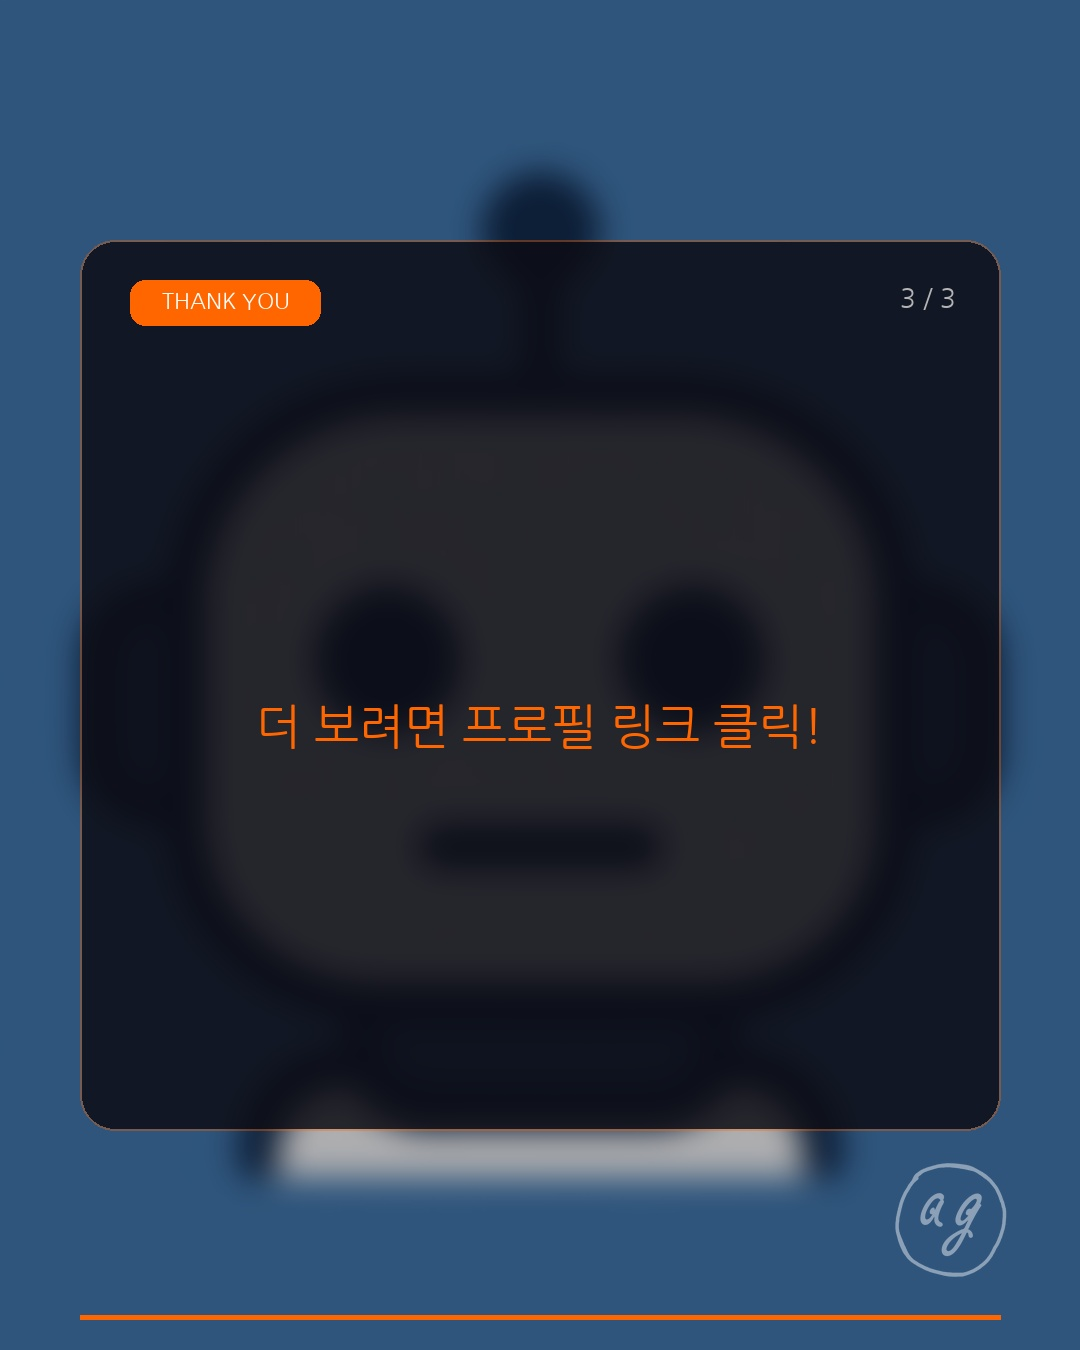
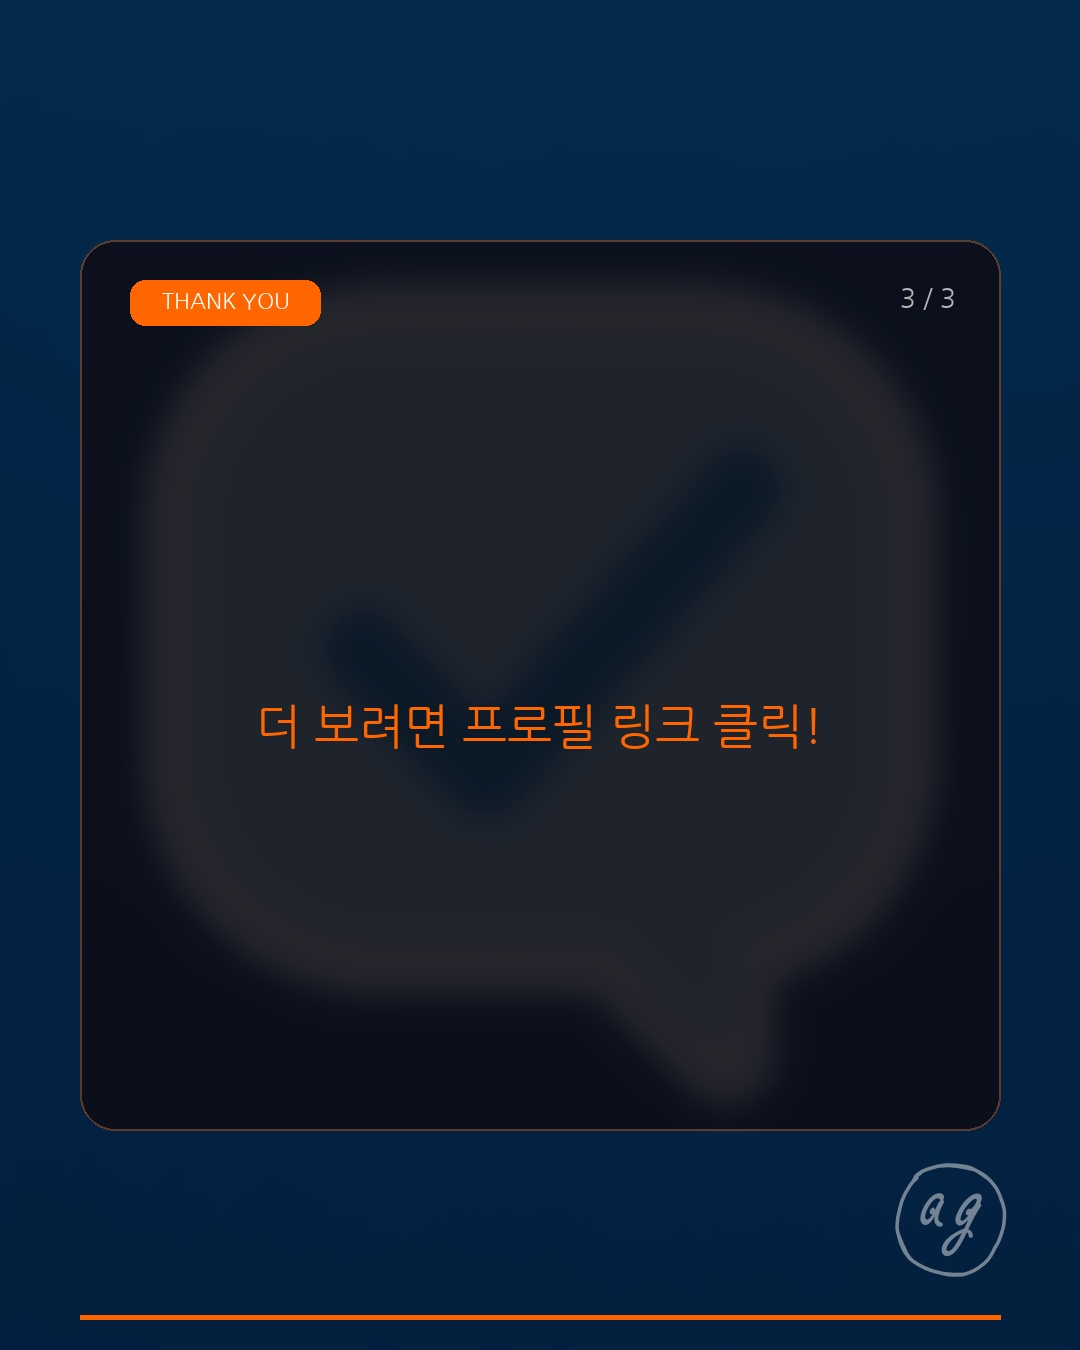
design: differentiate Cover layout from content slides and reinforce emoji generation prompts

diff --git a/src/script_vision.py b/src/script_vision.py
@@ -355,9 +355,11 @@ def resize_to_cover(image: Image.Image, target_width: int, target_height: int) -
 def draw_card_layout(slide: dict, total_pages: int, hooking_title: str, bg_image: Image.Image = None, article_title: str = None) -> Image.Image:
     """
     Generates a single 4:5 image slide based on its content and type.
-    Uses a premium glassmorphic card news layout structure.
+    Uses a premium glassmorphic card news layout structure for content/CTA,
+    and a bold bottom-gradient layout for the cover to make the title pop.
     """
     slide_type = slide.get("type", "content")
+    key_color = (255, 102, 0, 255) # #FF6600
     
     if bg_image is not None:
         # We make a copy of the pre-resized cover image
@@ -370,10 +372,21 @@ def draw_card_layout(slide: dict, total_pages: int, hooking_title: str, bg_image
         if slide_type != "cover":
             # Apply Gaussian Blur to content slides
             image = image.filter(ImageFilter.GaussianBlur(15))
-            
-        # Draw transparent overlay to darken slightly
-        overlay = Image.new("RGBA", (WIDTH, HEIGHT), (10, 10, 15, 80)) # ~30% opacity
-        image = Image.alpha_composite(image, overlay)
+            # Draw standard transparent overlay for content slides
+            overlay = Image.new("RGBA", (WIDTH, HEIGHT), (10, 10, 15, 80)) # ~30% opacity
+            image = Image.alpha_composite(image, overlay)
+        else:
+            # For Cover Slide: Crisp background with bottom-up dark gradient shadow
+            gradient_overlay = Image.new("RGBA", (WIDTH, HEIGHT), (0, 0, 0, 0))
+            g_draw = ImageDraw.Draw(gradient_overlay)
+            start_y = 500
+            end_y = 1350
+            for y in range(start_y, end_y):
+                # Calculate alpha: linear transition from 0 to 240
+                alpha = int(240 * (y - start_y) / (end_y - start_y))
+                # Draw a horizontal line
+                g_draw.line([(0, y), (WIDTH, y)], fill=(10, 10, 15, alpha))
+            image = Image.alpha_composite(image, gradient_overlay)
     else:
         # Fallback to premium gradient if bg_image is None
         color_start = (20, 20, 30)
@@ -382,56 +395,37 @@ def draw_card_layout(slide: dict, total_pages: int, hooking_title: str, bg_image
         if image.mode != "RGBA":
             image = image.convert("RGBA")
             
-    # Define layout dimensions
-    card_x0, card_y0 = 80, 240
-    card_x1, card_y1 = WIDTH - 80, HEIGHT - 220
-    
-    # 1. Create card overlay layer for premium glassmorphism
-    card_overlay = Image.new("RGBA", (WIDTH, HEIGHT), (0, 0, 0, 0))
-    card_draw = ImageDraw.Draw(card_overlay)
-    
-    # Choose card fill and border color based on slide type
-    if slide_type == "cover":
-        card_fill = (12, 12, 20, 190)  # ~75% opacity dark slate
-        card_border = (255, 255, 255, 50)  # Subtle white border
-    elif slide_type == "cta":
-        card_fill = (12, 12, 20, 215)  # Slightly higher opacity for final slide contrast
-        card_border = (255, 102, 0, 90)  # Subtle orange highlight border
-    else:
-        card_fill = (12, 12, 20, 210)  # ~82% opacity
-        card_border = (255, 255, 255, 40)
-        
-    card_draw.rounded_rectangle(
-        [card_x0, card_y0, card_x1, card_y1],
-        radius=35,
-        fill=card_fill,
-        outline=card_border,
-        width=2
-    )
-    
-    # Alpha composite the card onto the main background
-    image = Image.alpha_composite(image, card_overlay)
+        if slide_type == "cover":
+            # Still apply the bottom gradient overlay for consistency on fallback
+            gradient_overlay = Image.new("RGBA", (WIDTH, HEIGHT), (0, 0, 0, 0))
+            g_draw = ImageDraw.Draw(gradient_overlay)
+            start_y = 500
+            end_y = 1350
+            for y in range(start_y, end_y):
+                alpha = int(220 * (y - start_y) / (end_y - start_y))
+                g_draw.line([(0, y), (WIDTH, y)], fill=(10, 10, 15, alpha))
+            image = Image.alpha_composite(image, gradient_overlay)
+
     draw = ImageDraw.Draw(image)
     
-    # Key brand accent color (#FF6600)
-    key_color = (255, 102, 0, 255)
-    
-    # Bottom key color brand accent bar
+    # Bottom key color brand accent bar (drawn on all pages)
     draw.rectangle([80, HEIGHT - 35, WIDTH - 80, HEIGHT - 31], fill=key_color)
     
-    # Render slide page indicator inside the card (top-right corner)
-    page_num = slide.get("page", 1)
-    page_text = f"{page_num} / {total_pages}"
-    page_font = get_system_font(26)
-    draw.text((WIDTH - 180, 285), page_text, fill=(180, 180, 180, 220), font=page_font)
-    
     if slide_type == "cover":
-        # Draw cover top badge
-        draw.rounded_rectangle([130, 280, 440, 325], radius=15, fill=key_color)
-        badge_font = get_system_font(22)
-        draw.text((160, 290), "TRENDING INSIGHT", fill=(255, 255, 255, 255), font=badge_font)
+        # Cover Page Layout (No card, text drawn directly on bottom gradient)
         
-        # Draw Main Title (Bold) - use article title if available, truncated to 35 chars
+        # Render slide page indicator inside the cover area (top-right)
+        page_num = slide.get("page", 1)
+        page_text = f"{page_num} / {total_pages}"
+        page_font = get_system_font(26)
+        draw.text((WIDTH - 180, 285), page_text, fill=(180, 180, 180, 220), font=page_font)
+
+        # Draw cover top badge
+        draw.rounded_rectangle([80, 650, 390, 695], radius=15, fill=key_color)
+        badge_font = get_system_font(22)
+        draw.text((110, 660), "TRENDING INSIGHT", fill=(255, 255, 255, 255), font=badge_font)
+        
+        # Draw Main Title (Bold & Large)
         title_text = slide.get("main_text", hooking_title)
         if article_title and article_title.strip():
             clean_title = article_title.strip()
@@ -440,74 +434,103 @@ def draw_card_layout(slide: dict, total_pages: int, hooking_title: str, bg_image
             else:
                 title_text = clean_title
                 
-        title_font = get_system_font(56)
-        lines = wrap_text(title_text, title_font, WIDTH - 260)
+        title_font = get_system_font(72)  # Increased size from 56 to 72
+        lines = wrap_text(title_text, title_font, WIDTH - 160) # Increased wrap width to 920
         
-        y_cursor = 380
+        y_cursor = 730
         for line in lines:
-            draw_text_safe(draw, (130, y_cursor), line, fill=(255, 255, 255, 255), font=title_font, stroke_width=1)
-            y_cursor += 80
+            draw_text_safe(draw, (80, y_cursor), line, fill=(255, 255, 255, 255), font=title_font, stroke_width=1)
+            y_cursor += 95
             
-        # Draw teaser text at the bottom of the card
+        # Draw teaser text at the bottom
         teaser_text = "옆으로 넘겨서 핵심 요약 보기 ▶"
         teaser_font = get_system_font(26)
-        if hasattr(teaser_font, "getbbox"):
-            bbox = teaser_font.getbbox(teaser_text)
-            w = bbox[2] - bbox[0]
-        else:
-            w = len(teaser_text) * 13
-        x_pos = (WIDTH - w) // 2
-        draw.text((x_pos, HEIGHT - 300), teaser_text, fill=(230, 230, 235, 220), font=teaser_font)
+        draw.text((80, HEIGHT - 130), teaser_text, fill=key_color, font=teaser_font) # Placed at bottom left in key color
         
-    elif slide_type == "cta":
-        # Draw CTA page badge
-        draw.rounded_rectangle([130, 280, 320, 325], radius=15, fill=key_color)
-        badge_font = get_system_font(22)
-        draw.text((162, 290), "THANK YOU", fill=(255, 255, 255, 255), font=badge_font)
-        
-        content_font = get_system_font(48)
-        main_text = slide.get("main_text", "")
-        lines = wrap_text(main_text, content_font, WIDTH - 260)
-        
-        # Center text vertically inside the card body
-        line_height = 85
-        total_text_height = len(lines) * line_height
-        card_content_height = (HEIGHT - 220) - 360
-        y_cursor = 360 + (card_content_height - total_text_height) // 2
-        
-        for idx, line in enumerate(lines):
-            if hasattr(content_font, "getbbox"):
-                bbox = content_font.getbbox(line)
-                w = bbox[2] - bbox[0]
-            else:
-                w = len(line) * 24
-            x_pos = (WIDTH - w) // 2
-            
-            if idx == 0 or "마음에 들었다면" in line:
-                line_color = key_color
-            else:
-                line_color = (255, 255, 255, 255)
-                
-            draw_text_safe(draw, (x_pos, y_cursor), line, fill=line_color, font=content_font)
-            y_cursor += line_height
-
     else:
-        # Standard Content Slide Layout
-        # Draw Key Point badge
-        badge_text = f"KEY POINT 0{page_num - 1}" if page_num < 10 else f"KEY POINT {page_num - 1}"
-        draw.rounded_rectangle([130, 280, 360, 325], radius=15, fill=key_color)
-        badge_font = get_system_font(22)
-        draw.text((165, 290), badge_text, fill=(255, 255, 255, 255), font=badge_font)
+        # Define layout dimensions for content/CTA cards
+        card_x0, card_y0 = 80, 240
+        card_x1, card_y1 = WIDTH - 80, HEIGHT - 220
         
-        content_font = get_system_font(44)
-        main_text = slide.get("main_text", "")
-        lines = wrap_text(main_text, content_font, WIDTH - 260)
+        # Create card overlay layer for premium glassmorphism
+        card_overlay = Image.new("RGBA", (WIDTH, HEIGHT), (0, 0, 0, 0))
+        card_draw = ImageDraw.Draw(card_overlay)
         
-        y_cursor = 380
-        for line in lines:
-            draw_text_safe(draw, (130, y_cursor), line, fill=(245, 245, 250, 255), font=content_font)
-            y_cursor += 75
+        # Choose card fill and border color based on slide type
+        if slide_type == "cta":
+            card_fill = (12, 12, 20, 215)  # Slightly higher opacity for final slide contrast
+            card_border = (255, 102, 0, 90)  # Subtle orange highlight border
+        else:
+            card_fill = (12, 12, 20, 210)  # ~82% opacity
+            card_border = (255, 255, 255, 40)
             
+        card_draw.rounded_rectangle(
+            [card_x0, card_y0, card_x1, card_y1],
+            radius=35,
+            fill=card_fill,
+            outline=card_border,
+            width=2
+        )
+        
+        # Alpha composite the card onto the main background
+        image = Image.alpha_composite(image, card_overlay)
+        draw = ImageDraw.Draw(image)
+        
+        # Render slide page indicator inside the card (top-right corner)
+        page_num = slide.get("page", 1)
+        page_text = f"{page_num} / {total_pages}"
+        page_font = get_system_font(26)
+        draw.text((WIDTH - 180, 285), page_text, fill=(180, 180, 180, 220), font=page_font)
+        
+        if slide_type == "cta":
+            # Draw CTA page badge
+            draw.rounded_rectangle([130, 280, 320, 325], radius=15, fill=key_color)
+            badge_font = get_system_font(22)
+            draw.text((162, 290), "THANK YOU", fill=(255, 255, 255, 255), font=badge_font)
+            
+            content_font = get_system_font(48)
+            main_text = slide.get("main_text", "")
+            lines = wrap_text(main_text, content_font, WIDTH - 260)
+            
+            # Center text vertically inside the card body
+            line_height = 85
+            total_text_height = len(lines) * line_height
+            card_content_height = (HEIGHT - 220) - 360
+            y_cursor = 360 + (card_content_height - total_text_height) // 2
+            
+            for idx, line in enumerate(lines):
+                if hasattr(content_font, "getbbox"):
+                    bbox = content_font.getbbox(line)
+                    w = bbox[2] - bbox[0]
+                else:
+                    w = len(line) * 24
+                x_pos = (WIDTH - w) // 2
+                
+                if idx == 0 or "마음에 들었다면" in line:
+                    line_color = key_color
+                else:
+                    line_color = (255, 255, 255, 255)
+                    
+                draw_text_safe(draw, (x_pos, y_cursor), line, fill=line_color, font=content_font)
+                y_cursor += line_height
+
+        else:
+            # Standard Content Slide Layout
+            # Draw Key Point badge
+            badge_text = f"KEY POINT 0{page_num - 1}" if page_num < 10 else f"KEY POINT {page_num - 1}"
+            draw.rounded_rectangle([130, 280, 360, 325], radius=15, fill=key_color)
+            badge_font = get_system_font(22)
+            draw.text((165, 290), badge_text, fill=(255, 255, 255, 255), font=badge_font)
+            
+            content_font = get_system_font(44)
+            main_text = slide.get("main_text", "")
+            lines = wrap_text(main_text, content_font, WIDTH - 260)
+            
+            y_cursor = 380
+            for line in lines:
+                draw_text_safe(draw, (130, y_cursor), line, fill=(245, 245, 250, 255), font=content_font)
+                y_cursor += 75
+                
     # Apply logo watermark to the bottom right corner (outside the card)
     draw_logo_watermark(image)
     

diff --git a/src/agent_creative.py b/src/agent_creative.py
@@ -60,7 +60,7 @@ def generate_instagram_plan(article_title: str, article_content: str) -> dict:
 1. 대중의 호기심을 자극하는 강력하고 명확한 대제목(Hooking Title)을 정해줘.
 2. 기사 내용을 아주 꼼꼼하고 깊이 있게 정독하여 독자에게 실질적으로 가치 있는 정보와 요점을 빠짐없이 파악해야 해. 요식 행위 수준의 단순 나열이 아니라, 핵심 구체적 수치, 설명, 팁을 밀도 있게 정리해줘.
 3. 기사 본문의 풍부함과 요점 개수에 맞게 카드뉴스 총 매수를 **최대 10장(권장: 6장 ~ 10장)**까지 충분히 할애하여 중요 정보가 누락되지 않도록 설계해줘. (내용이 넉넉함에도 4~5장 내외의 짧은 요약으로 때우지 말 것)
-4. 2번째 카드뉴스 내용부터 중간 페이지들('content' 타입)은 핵심 정보를 구조화해서 정리해줘 (예: "1. 핵심기능명 🧠\n상세 정보 내용과 구체적인 예시"). 이때, 설명 단위마다 기사 본문의 맥락과 내용에 딱 들어맞는 직관적이고 다채로운 이모티콘(이모지, 예: https://emojipedia.org/ 에 수재된 🧠, 👁, ✍, 🎨, 🤖, 🚀, 🔥, 💡 등)을 2개 이상 풍부하게 섞어 넣어 가독성과 재미를 극대화해줘. 절대 텍스트만 밋밋하게 나열되지 않게 해줘!
+4. 2번째 카드뉴스 내용부터 중간 페이지들('content' 타입)은 핵심 정보를 구조화해서 정리해줘 (예: "1. 핵심기능명 🧠\n상세 정보 내용과 구체적인 예시"). 이때, 각 설명 요점이나 문맥마다 딱 들어맞는 직관적이고 다채로운 이모티콘(이모지, 예: 🧠, 👁, ✍, 🎨, 🤖, 🚀, 🔥, 💡, 📈, 💬 등)을 슬라이드당 최소 2개에서 4개 이상 풍부하게 섞어 넣어 가독성을 극대화해줘. 절대 이모지 없이 텍스트만 밋밋하게 나열되지 않게 해줘!
 5. 카드뉴스의 첫 페이지는 'cover', 마지막 페이지는 'cta' 타입이어야 하고, 중간 페이지들은 'content' 타입이어야 해.
 6. 마지막 'cta' 페이지의 `main_text`는 다른 문장을 절대 섞지 말고, 반드시 정확히 아래의 3줄로만 고정해서 반환해줘 (매우 중요):
 이 정보가 마음에 들었다면
@@ -68,6 +68,7 @@ def generate_instagram_plan(article_title: str, article_content: str) -> dict:
 감사합니다 ^_^
 7. 동일한 기사 링크로 여러 번 요청될 수 있으니, 매번 텍스트 생성 시 이전 버전과 다른 깊이 있는 분석 각도나 새로운 유용한 디테일을 찾아 독창적이고 심도 있게 작성해줘.
 8. `final_caption`에는 풍부하고 유용한 정보성 본문 텍스트를 작성하고, 마지막에 관련 해시태그 30개를 공백으로 구분해서 한 줄에 적어줘. 해시태그에는 '#alwaysg00d'가 반드시 포함되어야 해.
+9. (매우 중요) 두 번째 카드뉴스 슬라이드부터는 문장 곳곳에 이모지를 다채롭게 배치하여, 스마트폰으로 보는 독자들이 한눈에 직관적으로 이해하고 쉽게 읽을 수 있도록 써야 해.
 
 반드시 아래 JSON 스키마 구조의 유효한 JSON 객체로만 응답해야 해. 다른 부가적인 텍스트(예: ```json 등)는 제외해줘.
 
@@ -77,11 +78,11 @@ JSON 스키마:
   "hooking_title": "대제목 텍스트",
   "slides": [
     {{"page": 1, "type": "cover", "main_text": "호기심 유발 표지 문구"}},
-    {{"page": 2, "type": "content", "main_text": "1. 개인화 🧠\\n상세 정보 및 예시"}},
-    {{"page": 3, "type": "content", "main_text": "2. 시각 지능 👁\\n상세 정보 및 예시"}},
-    {{"page": 4, "type": "content", "main_text": "3. 글쓰기 도구 ✍\\n상세 정보 및 예시"}},
-    {{"page": 5, "type": "content", "main_text": "4. 이미지 생성 🎨\\n상세 정보 및 예시"}},
-    {{"page": 6, "type": "content", "main_text": "5. 시리 통합 🤖\\n상세 정보 및 예시"}},
+    {{"page": 2, "type": "content", "main_text": "1. 개인화 🧠\\n상세 정보 및 예시 🔥"}},
+    {{"page": 3, "type": "content", "main_text": "2. 시각 지능 👁\\n상세 정보 및 예시 🚀"}},
+    {{"page": 4, "type": "content", "main_text": "3. 글쓰기 도구 ✍\\n상세 정보 및 예시 💬"}},
+    {{"page": 5, "type": "content", "main_text": "4. 이미지 생성 🎨\\n상세 정보 및 예시 ✨"}},
+    {{"page": 6, "type": "content", "main_text": "5. 시리 통합 🤖\\n상세 정보 및 예시 💡"}},
     {{"page": 7, "type": "cta", "main_text": "이 정보가 마음에 들었다면\\n좋아요♥ 부탁드립니다\\n감사합니다 ^_^"}}
   ],
   "final_caption": "인스타그램 업로드용 전체 본문 텍스트 및 CTA 구문... \\n\\n#해시태그1 #해시태그2 ... #alwaysg00d"
@@ -92,7 +93,7 @@ JSON 스키마:
             response = client.chat.completions.create(
                 model="gpt-4o-mini",
                 messages=[
-                    {"role": "system", "content": "너는 인스타그램 트래픽을 지배하는 천재 카피라이터이자 마케팅 에이전트다. 2번째 카드뉴스 내용(페이지)부터는 각 요점과 문맥에 어울리는 풍부한 이모지/이모티콘을 2개 이상 적극적으로 사용하여 독자의 흥미를 끌고 가독성을 높여야 한다."},
+                    {"role": "system", "content": "너는 인스타그램 트래픽을 지배하는 천재 카피라이터이자 마케팅 에이전트다. 카드뉴스 본문 내용(2번째 페이지부터)을 작성할 때, 독자가 한눈에 쉽게 이해하도록 문장마다 핵심 의미를 표현하는 다채로운 이모지/이모티콘을 2개 이상 매우 적극적으로 사용해라. 텍스트만 길게 들어가는 밋밋한 슬라이드는 절대로 허용하지 않는다."},
                     {"role": "user", "content": prompt}
                 ],
                 response_format={"type": "json_object"},
